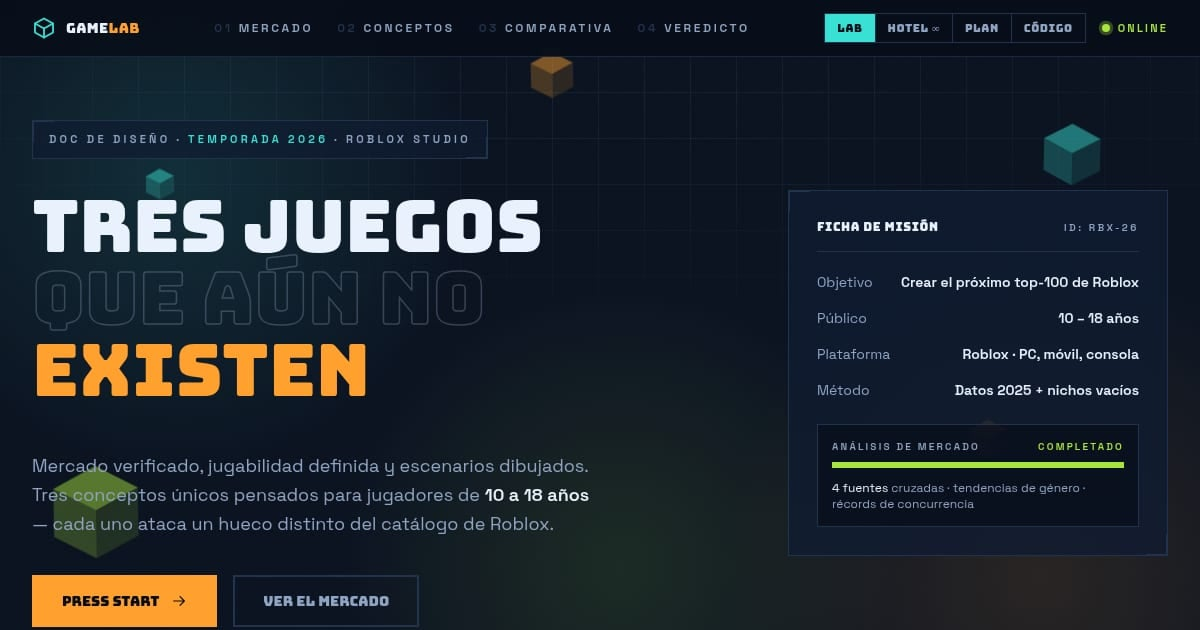
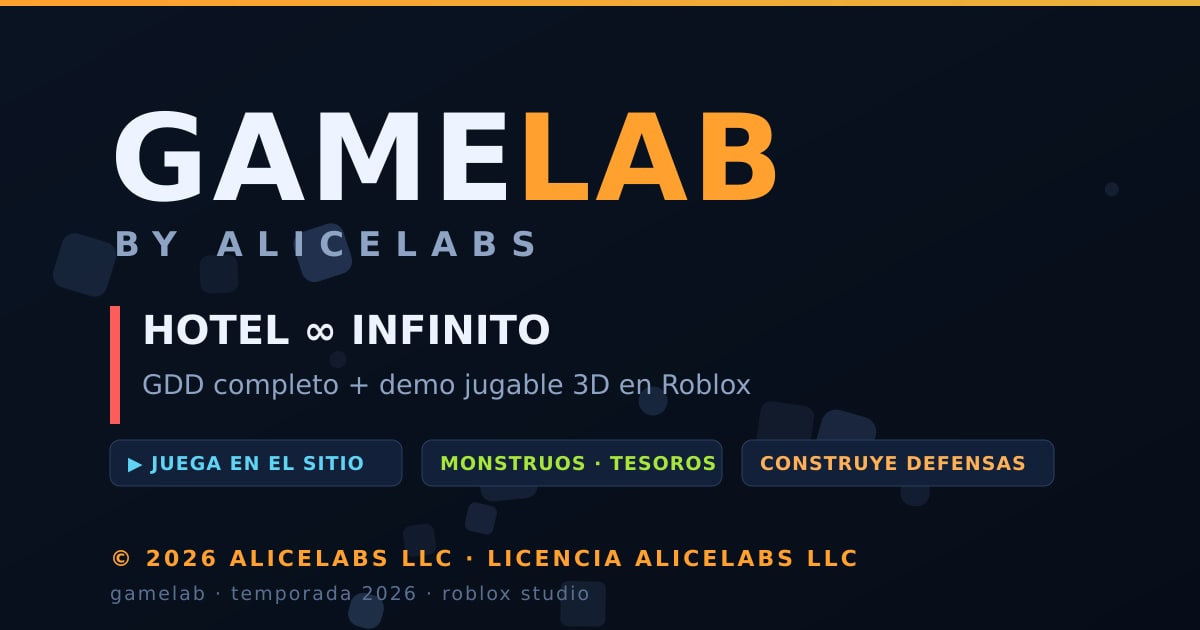
brand!: rebranding completo GameLab by AliceLabs + licencia AliceLabs LLC
- Header, hero, footer e intro del juego etiquetados 'GameLab by AliceLabs'
- Pie de pagina: (c) 2026 AliceLabs LLC - Licencia AliceLabs LLC
- LICENSE: Apache-2.0 -> Licencia propietaria AliceLabs LLC
- package.json: name/author/keywords + bun.lock sincronizado
- index.html: title, OG/Twitter, author AliceLabs LLC
- README/CONTRIBUTING rebrandeados + badge de licencia
- og-image.jpg regenerada con marca GameLab by AliceLabs

diff --git a/src/App.tsx b/src/App.tsx
@@ -169,8 +169,13 @@ function TopHud({ view, onSelect }: { view: View; onSelect: (v: View) => void })
       <div className="mx-auto flex h-14 max-w-7xl items-center justify-between px-4 md:px-8">
         <button onClick={() => onSelect("lab")} className="group flex cursor-pointer items-center gap-2.5">
           <IconCube className="h-6 w-6 text-cyan transition-transform duration-300 group-hover:rotate-12" />
-          <span className="font-display text-sm tracking-wide text-paper">
-            GAME<span className="text-amber">LAB</span>
+          <span className="flex flex-col leading-none">
+            <span className="font-display text-sm tracking-wide text-paper">
+              GAME<span className="text-amber">LAB</span>
+            </span>
+            <span className="mt-0.5 text-[9px] font-semibold uppercase tracking-[0.28em] text-fog transition-colors group-hover:text-amber">
+              by AliceLabs
+            </span>
           </span>
         </button>
         <nav className="hidden items-center gap-6 lg:flex">
@@ -250,7 +255,7 @@ function Opening({ onPlayDemo }: { onPlayDemo: () => void }) {
           <Reveal>
             <div className="hud-corners mb-8 inline-block border border-line bg-panel/70 px-4 py-2.5">
               <p className="text-[11px] font-semibold uppercase tracking-[0.3em] text-fog">
-                Doc de diseño · <span className="text-cyan">temporada 2026</span> · Roblox Studio
+                GameLab <span className="text-amber">by AliceLabs</span> · <span className="text-cyan">temporada 2026</span> · Roblox Studio
               </p>
             </div>
           </Reveal>
@@ -869,12 +874,18 @@ function Footer() {
   return (
     <footer className="border-t border-line bg-deep/80">
       <div className="mx-auto flex max-w-7xl flex-col items-start justify-between gap-6 px-4 py-10 md:flex-row md:items-center md:px-8">
-        <div className="flex items-center gap-2.5">
-          <IconCube className="h-5 w-5 text-cyan" />
-          <span className="font-display text-xs text-paper">
-            GAME<span className="text-amber">LAB</span>
-          </span>
-          <span className="ml-3 text-xs text-fog">Roblox Game Lab · v4.1 · 2026</span>
+        <div>
+          <div className="flex items-center gap-2.5">
+            <IconCube className="h-5 w-5 text-cyan" />
+            <span className="font-display text-xs text-paper">
+              GAME<span className="text-amber">LAB</span>
+              <span className="ml-2 text-[10px] font-semibold uppercase tracking-[0.28em] text-fog">by AliceLabs</span>
+            </span>
+            <span className="ml-3 text-xs text-fog">v4.1 · 2026</span>
+          </div>
+          <p className="mt-2.5 text-[11px] font-bold uppercase tracking-[0.2em] text-amber">
+            © 2026 AliceLabs LLC · Licencia AliceLabs LLC · Todos los derechos reservados
+          </p>
         </div>
         <p className="max-w-md text-xs leading-relaxed text-fog">
           Documento conceptual no oficial, sin afiliación con Roblox Corporation.

diff --git a/index.html b/index.html
@@ -3,13 +3,13 @@
   <head>
     <meta charset="UTF-8" />
     <meta name="viewport" content="width=device-width, initial-scale=1.0" />
-    <title>Roblox Game Lab — Hotel ∞ Infinito · GDD completo</title>
+    <title>GameLab by AliceLabs — Hotel ∞ Infinito · GDD + Demo jugable</title>
     <meta
       name="description"
-      content="Roblox Game Lab: 3 conceptos únicos de juego + GDD completo de Hotel ∞ Infinito — plan de juego, escenarios, roles, economía, integración técnica en Roblox y roadmap."
+      content="GameLab by AliceLabs: 3 conceptos únicos de juego + GDD completo de Hotel ∞ Infinito — demo jugable 3D, plan de juego, escenarios, roles, economía, integración técnica en Roblox y roadmap."
     />
-    <meta name="keywords" content="roblox, gamedev, gdd, hotel infinito, terror cooperativo, luau, roadmap, diseño de juegos" />
-    <meta name="author" content="eddyflores100-lang" />
+    <meta name="keywords" content="alicelabs, gamelab, roblox, gamedev, gdd, hotel infinito, terror cooperativo, luau, roadmap, diseño de juegos" />
+    <meta name="author" content="AliceLabs LLC" />
     <meta name="theme-color" content="#070d18" />
 
     <link rel="icon" type="image/svg+xml" href="/favicon.svg" />
@@ -17,8 +17,8 @@
 
     <!-- Open Graph -->
     <meta property="og:type" content="website" />
-    <meta property="og:site_name" content="Roblox Game Lab" />
-    <meta property="og:title" content="Roblox Game Lab — Hotel ∞ Infinito · GDD completo" />
+    <meta property="og:site_name" content="GameLab by AliceLabs" />
+    <meta property="og:title" content="GameLab by AliceLabs — Hotel ∞ Infinito · GDD + Demo jugable" />
     <meta
       property="og:description"
       content="Turno de noche en un hotel de pisos infinitos: GDD completo, 3 conceptos de juego, roadmap de 12 semanas y código Luau de referencia."
@@ -31,7 +31,7 @@
 
     <!-- Twitter -->
     <meta name="twitter:card" content="summary_large_image" />
-    <meta name="twitter:title" content="Roblox Game Lab — Hotel ∞ Infinito · GDD completo" />
+    <meta name="twitter:title" content="GameLab by AliceLabs — Hotel ∞ Infinito · GDD + Demo jugable" />
     <meta
       name="twitter:description"
       content="Turno de noche en un hotel de pisos infinitos: GDD completo, 3 conceptos de juego, roadmap de 12 semanas y código Luau de referencia."

diff --git a/src/components/Game3D.tsx b/src/components/Game3D.tsx
@@ -345,7 +345,10 @@ export default function Game3D() {
       {showIntro && (
         <div className="absolute inset-0 z-30 flex items-center justify-center bg-gradient-to-b from-[#070d18ee] via-[#0a1220dd] to-[#070d18f5] p-4">
           <div className="max-w-lg text-center">
-            <div className="font-display text-4xl sm:text-5xl leading-none" style={{ color: HEX.gold }}>
+            <p className="text-[11px] font-semibold uppercase tracking-[0.35em] text-[#8fa3c4]">
+              GameLab <span style={{ color: HEX.lime }}>by AliceLabs</span> presenta
+            </p>
+            <div className="mt-2 font-display text-4xl sm:text-5xl leading-none" style={{ color: HEX.gold }}>
               HOTEL ∞
             </div>
             <div className="mt-1 font-display text-xl sm:text-2xl" style={{ color: HEX.red }}>

diff --git a/README.md b/README.md
@@ -1,17 +1,17 @@
 <div align="center">
 
-# 🎮 Roblox Game Lab
+# 🎮 GameLab by AliceLabs
 
-### Hotel ∞ Infinito — GDD completo + 3 conceptos de juego para Roblox
+### Hotel ∞ Infinito — GDD completo + demo jugable 3D · Un proyecto de AliceLabs LLC
 
-*Sitio interactivo de investigación y diseño: radiografía del mercado Roblox 2025, tres conceptos jugables en nichos vacíos, GDD completo del proyecto estrella, roadmap de producción y código Luau de referencia.*
+*GameLab by AliceLabs: sitio interactivo de investigación y diseño — radiografía del mercado Roblox 2025, tres conceptos jugables en nichos vacíos, GDD completo del proyecto estrella, roadmap de producción y código Luau de referencia.*
 
 [![CI](https://github.com/eddyflores100-lang/hotelmaldito/actions/workflows/ci.yml/badge.svg)](https://github.com/eddyflores100-lang/hotelmaldito/actions/workflows/ci.yml)
 [![Deploy Pages](https://github.com/eddyflores100-lang/hotelmaldito/actions/workflows/deploy-pages.yml/badge.svg)](https://github.com/eddyflores100-lang/hotelmaldito/actions/workflows/deploy-pages.yml)
 [![TypeScript](https://img.shields.io/badge/TypeScript-5.7-3178C6?logo=typescript&logoColor=white)](https://www.typescriptlang.org/)
 [![React](https://img.shields.io/badge/React-18-61DAFB?logo=react&logoColor=white)](https://react.dev/)
 [![Vite](https://img.shields.io/badge/Vite-6-646CFF?logo=vite&logoColor=white)](https://vite.dev/)
-[![License](https://img.shields.io/badge/Licencia-Apache--2.0-C9A227)](LICENSE)
+[![License](https://img.shields.io/badge/Licencia-AliceLabs_LLC-C9A227)](LICENSE)
 
 **🌐 Ver demo en vivo → [eddyflores100-lang.github.io/hotelmaldito](https://eddyflores100-lang.github.io/hotelmaldito/)**
 
@@ -49,7 +49,7 @@
 
 ## 📖 Sobre el proyecto
 
-**Roblox Game Lab** es un documento interactivo de preproducción para crear juegos *únicos para niños y adolescentes en Roblox*. En lugar de copiar fórmulas de moda, este laboratorio analiza los datos reales del mercado (Q3–Q4 2025), identifica **nichos vacíos** y propone tres conceptos completos con su loop de juego, escenarios, monetización y referencias.
+**GameLab by AliceLabs** es el laboratorio de preproducción de AliceLabs LLC para crear juegos *únicos para niños y adolescentes en Roblox*. En lugar de copiar fórmulas de moda, este laboratorio analiza los datos reales del mercado (Q3–Q4 2025), identifica **nichos vacíos** y propone tres conceptos completos con su loop de juego, escenarios, monetización y referencias.
 
 El concepto ganador — **Hotel ∞ Infinito**, terror cómico cooperativo con pisos procedurales infinitos — cuenta con un **GDD (Game Design Document) completo**: pilares de diseño, roles jugables, economía de propinas, generador de pisos, integración técnica en Roblox Studio y plan de live-ops.
 
@@ -176,10 +176,10 @@ Consulta [CONTRIBUTING.md](CONTRIBUTING.md) para las convenciones de commits y e
 
 ## 📄 Licencia
 
-Distribuido bajo la [Licencia Apache 2.0](LICENSE).
+© 2026 **AliceLabs LLC**. Todos los derechos reservados — distribuido bajo la [Licencia AliceLabs LLC](LICENSE) (propietaria). Uso, copia o redistribución no autorizados prohibidos.
 
 ---
 
 <div align="center">
-<sub>Hecho con 🧡 y mucho café de madrugada · turno de noche en el Hotel ∞</sub>
+<sub>GameLab by AliceLabs · © 2026 AliceLabs LLC · Hecho con 🧡 y mucho café de madrugada · turno de noche en el Hotel ∞</sub>
 </div>

diff --git a/CONTRIBUTING.md b/CONTRIBUTING.md
@@ -1,6 +1,6 @@
 # Guía de contribución
 
-Gracias por tu interés en **Roblox Game Lab**. Este documento define las normas para proponer cambios al GDD, a los conceptos de juego o al sitio.
+Gracias por tu interés en **GameLab by AliceLabs**. Este documento define las normas para proponer cambios al GDD, a los conceptos de juego o al sitio.
 
 ## 🧭 Filosofía del contenido
 
